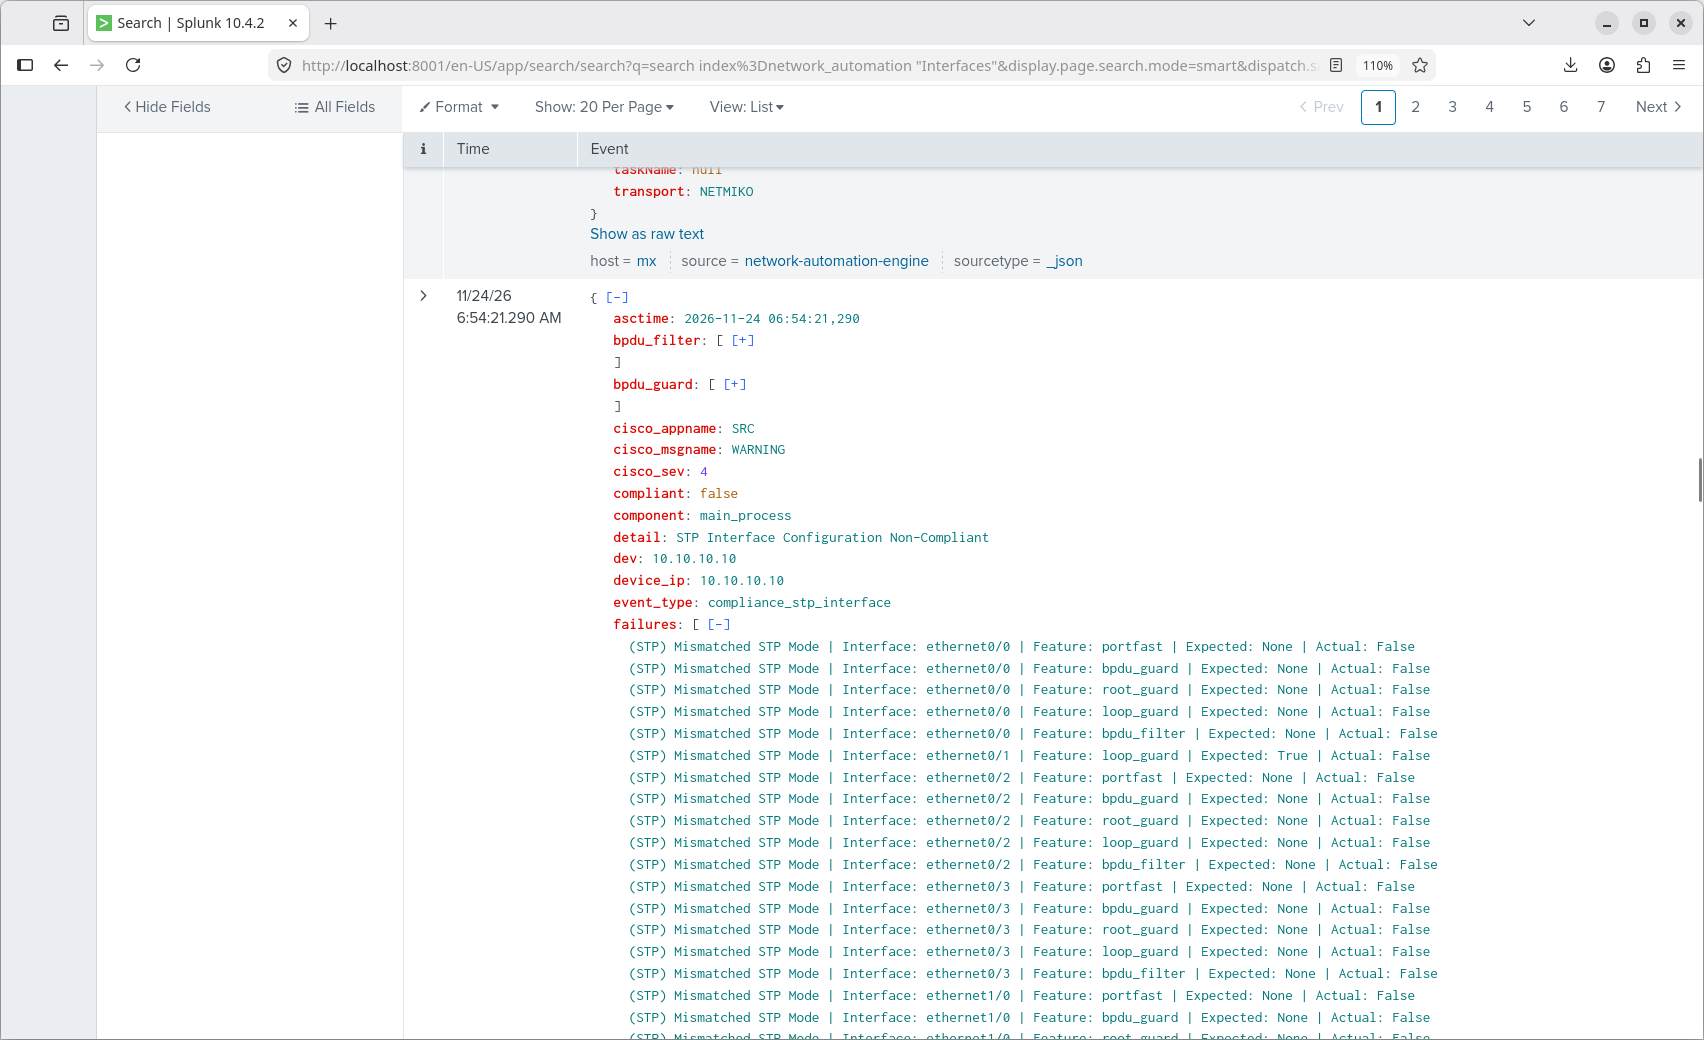
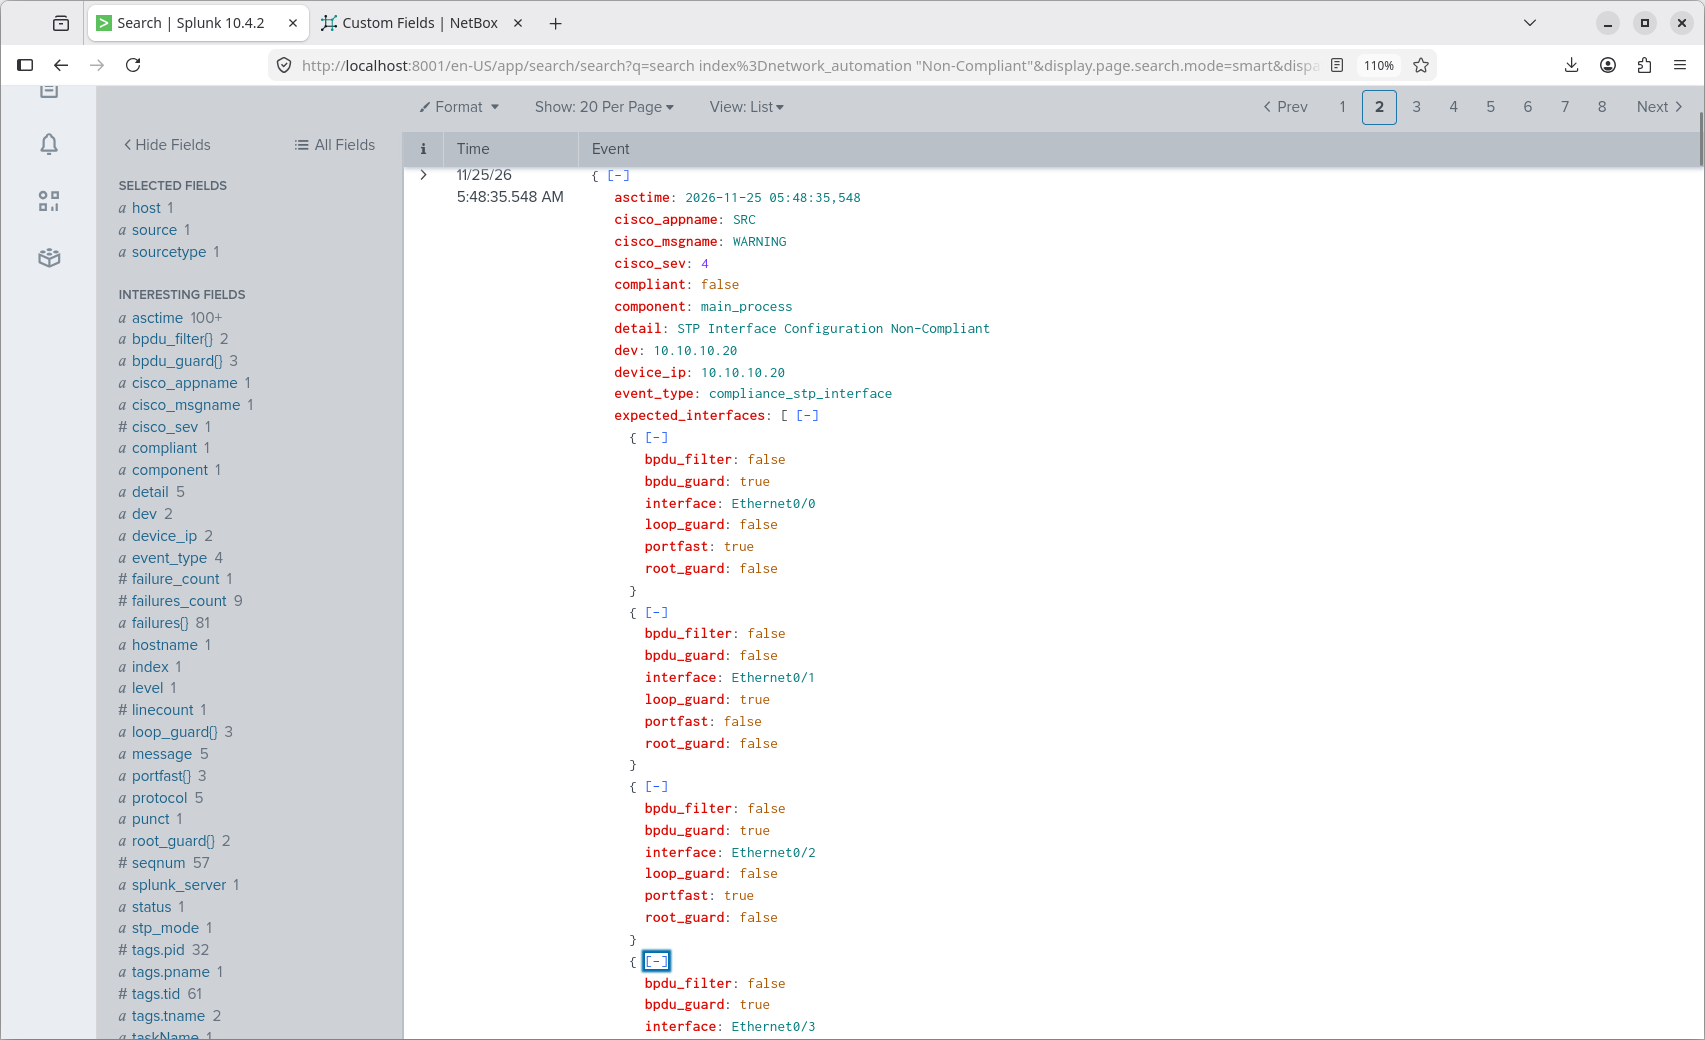
“README”

diff --git a/Feature Execution Walkthrough/stp/README.md b/Feature Execution Walkthrough/stp/README.md
@@ -959,9 +959,6 @@ CORE-SW-1(config)# no spanning-tree vlan 1,10,20,30,40,50,60,70
 ['(STP) Mismatched VLANs | Expected: 10,20,30,40,50,60,70 | Actual: 999']
 2026-11-25 05:52:37,123 - INFO - stp_interfaces_compliant
 ```
-
-> **Gate‑order proof:** the single string (not a priority diff) confirms `check_stp_global()` short‑circuits on the VLAN‑set gate before per‑VLAN priority comparison — a missing instance is reported as topology drift, not as 7 separate priority mismatches.
-
 ---
 
 #### Scenario D — Interface Edge‑Guard Drift (Unauthorized Root Guard & Missing Protections)
@@ -1065,32 +1062,6 @@ When `ACCESS-SW-1` was initialized with default, unconfigured switchports (no `p
 | VLAN absent from live `show spanning-tree` | VLAN declared in NetBox | **FAIL (Missing VLAN Topology)** | Log `stp_non_compliant`; enable STP on the missing VLAN. |
 | `portfast: False` on access port | `portfast: True` | **FAIL (Guard Mismatch)** | Log `stp_interfaces_non_compliant`; push `spanning-tree portfast`. |
 | `root_guard: False` on trunk | `root_guard: True` | **FAIL (Guard Mismatch)** | Log `stp_interfaces_non_compliant`; push `spanning-tree guard root`. |
-
-## 4. Interface STP Compliance
-
-Interface STP compliance validates spanning-tree protection settings on individual interfaces.
-
-The checker:
-
-```python
-check_stp_interfaces(expected_interfaces, actual_interfaces)
-```
-
-compares expected interface configuration against the actual collected device state.
-
-The interface compliance process validates the STP protection attributes defined in NetBox.
-
-These include:
-
-| Feature | Purpose |
-|---|---|
-| PortFast | Allows eligible edge ports to transition rapidly to forwarding |
-| BPDU Guard | Protects edge ports by disabling them when BPDUs are received |
-| Root Guard | Prevents a downstream device from becoming the STP root |
-| Loop Guard | Helps prevent loops caused by unexpected BPDU loss |
-| BPDU Filter | Controls BPDU transmission and reception |
-
-The checker identifies configuration drift and returns the detected failures for remediation.
 
 ## 5. Configuration Remediation
 
@@ -1541,54 +1512,86 @@ When access switchports (such as `Ethernet0/0` on `ACCESS-SW-1`) already match t
 ---
 
 #### 2. Interface Guard Drift Alert (`stp_interfaces_non_compliant`)
-When physical interfaces deviate from NetBox custom fields (e.g., unhardened access ports missing PortFast/BPDU Guard), a `WARNING` (severity 4) alert is indexed with the complete failure diff:
+When physical interfaces deviate from NetBox custom fields (e.g., unhardened access ports missing PortFast/BPDU Guard, or rogue `root_guard` on workstation ports), a `WARNING` (severity 4) alert is indexed with the complete failure diff **and** the NetBox‑intended guard baseline for each port:
 
 ![Splunk STP Interface Drift](screenshots/splunk-non-compliant.png)
 
 ```json
 {
-  "asctime": "2026-11-24 06:54:21,290",
+  "asctime": "2026-11-25 05:48:35,548",
   "cisco_appname": "SRC",
   "cisco_msgname": "WARNING",
   "cisco_sev": 4,
   "compliant": false,
   "component": "main_process",
   "detail": "STP Interface Configuration Non-Compliant",
-  "dev": "10.10.10.10",
-  "device_ip": "10.10.10.10",
+  "dev": "10.10.10.20",
+  "device_ip": "10.10.10.20",
   "event_type": "compliance_stp_interface",
-  "failures": [
-    "(STP) Mismatched STP Mode | Interface: ethernet0/0 | Feature: portfast | Expected: None | Actual: False",
-    "(STP) Mismatched STP Mode | Interface: ethernet0/0 | Feature: bpdu_guard | Expected: None | Actual: False",
-    "(STP) Mismatched STP Mode | Interface: ethernet0/0 | Feature: root_guard | Expected: None | Actual: False",
-    "(STP) Mismatched STP Mode | Interface: ethernet0/0 | Feature: loop_guard | Expected: None | Actual: False",
-    "(STP) Mismatched STP Mode | Interface: ethernet0/0 | Feature: bpdu_filter | Expected: None | Actual: False",
-    "(STP) Mismatched STP Mode | Interface: ethernet0/1 | Feature: loop_guard | Expected: True | Actual: False",
-    "(STP) Mismatched STP Mode | Interface: ethernet0/2 | Feature: portfast | Expected: None | Actual: False",
-    "(STP) Mismatched STP Mode | Interface: ethernet0/2 | Feature: bpdu_guard | Expected: None | Actual: False",
-    "(STP) Mismatched STP Mode | Interface: ethernet0/2 | Feature: root_guard | Expected: None | Actual: False",
-    "(STP) Mismatched STP Mode | Interface: ethernet0/2 | Feature: loop_guard | Expected: None | Actual: False",
-    "(STP) Mismatched STP Mode | Interface: ethernet0/2 | Feature: bpdu_filter | Expected: None | Actual: False",
-    "(STP) Mismatched STP Mode | Interface: ethernet0/3 | Feature: portfast | Expected: None | Actual: False",
-    "(STP) Mismatched STP Mode | Interface: ethernet0/3 | Feature: bpdu_guard | Expected: None | Actual: False",
-    "(STP) Mismatched STP Mode | Interface: ethernet0/3 | Feature: root_guard | Expected: None | Actual: False",
-    "(STP) Mismatched STP Mode | Interface: ethernet0/3 | Feature: loop_guard | Expected: None | Actual: False",
-    "(STP) Mismatched STP Mode | Interface: ethernet0/3 | Feature: bpdu_filter | Expected: None | Actual: False",
-    "(STP) Mismatched STP Mode | Interface: ethernet1/0 | Feature: portfast | Expected: None | Actual: False",
-    "(STP) Mismatched STP Mode | Interface: ethernet1/0 | Feature: bpdu_guard | Expected: None | Actual: False"
+  "expected_interfaces": [
+    {
+      "bpdu_filter": false,
+      "bpdu_guard": true,
+      "interface": "Ethernet0/0",
+      "loop_guard": false,
+      "portfast": true,
+      "root_guard": false
+    },
+    {
+      "bpdu_filter": false,
+      "bpdu_guard": false,
+      "interface": "Ethernet0/1",
+      "loop_guard": true,
+      "portfast": false,
+      "root_guard": false
+    },
+    {
+      "bpdu_filter": false,
+      "bpdu_guard": true,
+      "interface": "Ethernet0/2",
+      "loop_guard": false,
+      "portfast": true,
+      "root_guard": false
+    },
+    {
+      "bpdu_filter": false,
+      "bpdu_guard": true,
+      "interface": "Ethernet0/3",
+      "loop_guard": false,
+      "portfast": true,
+      "root_guard": false
+    }
   ],
-  "failures_count": 1,
+  "failures": [
+    "(STP) Mismatched STP Mode | Interface: ethernet0/0 | Feature: portfast   | Expected: True  | Actual: False",
+    "(STP) Mismatched STP Mode | Interface: ethernet0/0 | Feature: bpdu_guard | Expected: True  | Actual: False",
+    "(STP) Mismatched STP Mode | Interface: ethernet0/1 | Feature: loop_guard | Expected: True  | Actual: False",
+    "(STP) Mismatched STP Mode | Interface: ethernet0/2 | Feature: portfast   | Expected: True  | Actual: False",
+    "(STP) Mismatched STP Mode | Interface: ethernet0/2 | Feature: bpdu_guard | Expected: True  | Actual: False",
+    "(STP) Mismatched STP Mode | Interface: ethernet0/3 | Feature: portfast   | Expected: True  | Actual: False",
+    "(STP) Mismatched STP Mode | Interface: ethernet0/3 | Feature: bpdu_guard | Expected: True  | Actual: False",
+    "(STP) Mismatched STP Mode | Interface: ethernet1/0 | Feature: portfast   | Expected: True  | Actual: False",
+    "(STP) Mismatched STP Mode | Interface: ethernet1/0 | Feature: root_guard | Expected: False | Actual: True"
+  ],
+  "failures_count": 9,
   "hostname": "mx",
   "level": "WARNING",
   "message": "stp_interfaces_non_compliant",
   "protocol": "stp_interfaces",
-  "seqnum": 55,
+  "seqnum": 57,
   "status": "FAILED",
-  "tags": {},
+  "tags": {
+    "pid": 641021,
+    "pname": "MainProcess",
+    "tid": 139636932335296,
+    "tname": "ThreadPoolExecutor-0_1"
+  },
   "taskName": null,
   "transport": "NETMIKO"
 }
 ```
+
+> **Why `expected_interfaces` matters:** this field is the `stp_expected` list built by `compliance_stp_interfaces()`  it captures the exact NetBox‑declared guard baseline per port at the moment of evaluation. When paired with the `failures` array, a SecOps analyst can see both *what was intended* and *what actually drifted* in a single Splunk event, without having to re‑query NetBox.
 
 ---
 
@@ -1703,19 +1706,6 @@ Throughout execution, the engine updates the device result context used to gener
 
 ---
 
-## 9. Execution Results
-
-The module updates the device execution result throughout the compliance workflow.
-
-| Result Field | Purpose |
-|---|---|
-| `actions_taken` | Records compliant configurations, planned remediation, and validation results |
-| `initial_issues` | Records configuration drift detected before remediation |
-| `critical_issues` | Records remediation and post-validation failures |
-| `status` | Tracks the overall execution outcome |
-
-The updated device result is returned to the main automation pipeline.
-
 ## 10. Automated Unit Testing & CI/CD Validation (STP)
 
 To ensure high‑availability Layer 2 stability without risking physical forwarding loops on live hardware, the Spanning Tree module includes a comprehensive **100% offline unit‑testing suite** powered by **Pytest** and **unittest.mock**.
@@ -1738,8 +1728,6 @@ Validates that `build_stp_global()` correctly extracts operational STP modes (`p
 5. **`test_build_stp_global_invalid_vlan`**: Confirms non‑integer VLAN identifiers are safely skipped.
 
 #### Code Excerpt (`test_build_stp_global.py`):
-
-**Excerpt**
 
 ![Splunk STP Exception Log](screenshots/unit-test-code-build-global.png)
 
@@ -1844,8 +1832,6 @@ Validates that `build_stp_interfaces()` uses `CiscoConfParse` to inspect running
 4. **`test_build_stp_interfaces_invalid_interface`**: Injects a malformed interface block missing a port identifier; asserts the builder skips it and returns `{}`.
 
 #### Code Excerpt (`test_build_stp_interface.py`):
-
-**Excerpt**
 
 ![Global STP Builder Tests Terminal](screenshots/unit-test-build-code-interfaces.png)
 
@@ -2042,7 +2028,6 @@ Key architectural wins validated in this project include:
 ### Next Steps & Future Enhancements
 To further evolve this automation engine, the following enhancements are planned:
 - **Multi-Vendor Abstraction:** Leverage Genie's vendor-agnostic parsing to extend this exact same compliance logic to Arista (EOS) and Juniper (Junos) platforms without rewriting the core diff engine.
-- **Advanced L2 Policy Validation:** Expand the compliance checks to validate Link Aggregation (LACP/EtherChannel) member states, UniDirectional Link Detection (UDLD), and dynamic MAC address learning limits.
 - **CI/CD Pipeline Integration:** Embed the existing 23-case Pytest suite into GitHub Actions to automatically block Pull Requests that introduce regressions to the compliance logic or Jinja2 templates.
 
 ---
